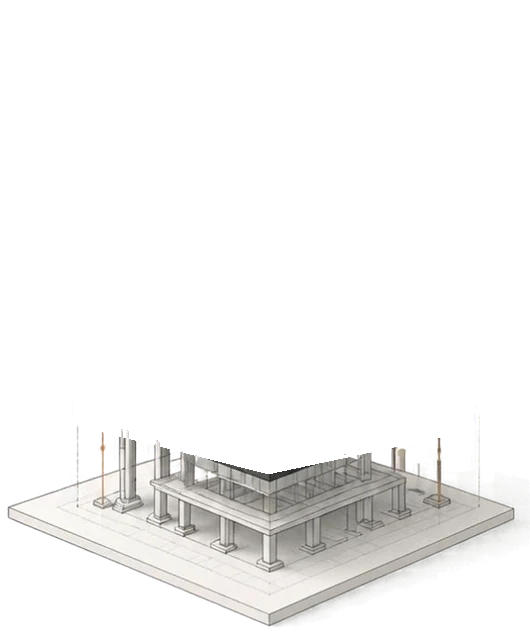
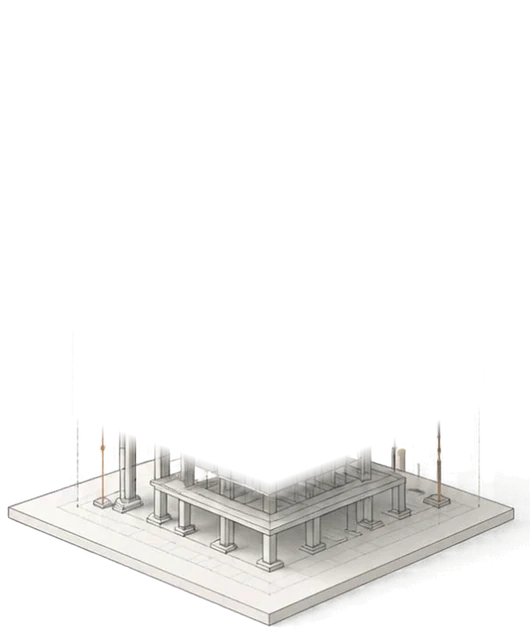
Hero model: re-trace the soil block's bottom edge and soften the foundations' cut

Changed region(s): [[0.2113, 0.6839, 0.6943, 0.8028], [0.8151, 0.6541, 0.8453, 0.6839], [0.7245, 0.6839, 0.7547, 0.7136]]

diff --git a/index.html b/index.html
@@ -83,13 +83,13 @@
 						<figure class="hero-model" role="img" aria-label="Exploded model of a site: survey and topography, investigation grid, rock surface, soil strata, and the foundations and structure beneath">
 							<div class="model-layer model-foundations" style="--i: 0">
 								<div class="model-float">
-									<img src="assets/img/model/model-foundations.webp" width="530" height="639" alt="" decoding="async">
+									<img src="assets/img/model/model-foundations.webp?v=2" width="530" height="639" alt="" decoding="async">
 									<span class="model-label" style="--ax: 516; --ay: 528">Foundations</span>
 								</div>
 							</div>
 							<div class="model-layer model-block" style="--i: 1">
 								<div class="model-float">
-									<img src="assets/img/model/model-block.webp" width="530" height="639" alt="" decoding="async" fetchpriority="high">
+									<img src="assets/img/model/model-block.webp?v=2" width="530" height="639" alt="" decoding="async" fetchpriority="high">
 									<span class="model-label" style="--ax: 482; --ay: 352">Soil strata</span>
 								</div>
 							</div>
